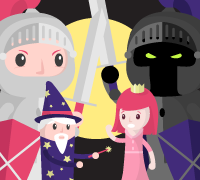
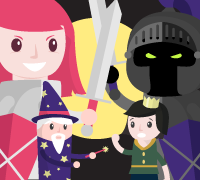
Fix qué bloques aparecen en Alien toca botón, mono contando, superviaje, laberitno, etc. Update portada mar encantado. Agrego bloque repetir vacio

diff --git a/app/actividades/actividadElMonoQueSabeContar.js b/app/actividades/actividadElMonoQueSabeContar.js
@@ -1,25 +1,18 @@
-/* globals ElMonoQueSabeContar */
-import elMonoCuentaDeNuevo from 'pilas-engine-bloques/actividades/actividadElMonoCuentaDeNuevo';
-import bloques from 'pilas-engine-bloques/actividades/bloques';
-var {AccionBuilder} = bloques;
+import {comunes,EstoyAlFin} from 'pilas-engine-bloques/actividades/bloquesMonoContando';
 
-var EstoyAlFin = AccionBuilder.buildSensor({
-  id: 'estoyFinColumna',
-  descripcion: 'Estoy al final de la columna',
-  icono: 'casillafinalmono.png',
-  funcionSensor: 'casillaActual().esFin()',
-});
+export default {
+  nombre: 'El mono que sabe contar',
+  id: 'ElMonoQueSabeContar',
+  enunciado: 'El mono debe recorrer todas las casillas y contar cuántas bananas y manzanas hay en total. Pista: primero pensá cómo contarías si hay una manzana o una banana en una casilla determinada. Luego pensá cómo harías para contar todas las frutas de una sola columna.',
+  consignaInicial: 'Subdividir un problema grande en problemas más pequeños ayuda a comprender mejor cada una de las partes que lo componen. Además nos permite concentrarnos en resolver cuestiones más sencillas al problema original.',
 
-var ConstructorDeAct = function(){};
-ConstructorDeAct.prototype = elMonoCuentaDeNuevo;
-var elMonoQueSabeContar = new ConstructorDeAct();
+  // la escena proviene de ejerciciosPilas
+  /* globals ElMonoQueSabeContar */
+  escena: ElMonoQueSabeContar,  // jshint ignore:line
+  puedeComentar: false,
+  puedeDesactivar: false,
+  puedeDuplicar: false,
 
-elMonoQueSabeContar.nombre = 'El mono que sabe contar';
-elMonoQueSabeContar.id = 'ElMonoQueSabeContar';
-elMonoQueSabeContar.enunciado = 'El mono debe recorrer todas las casillas y contar cuántas bananas y manzanas hay en total. Pista: primero pensá cómo contarías si hay una manzana o una banana en una casilla determinada. Luego pensá cómo harías para contar todas las frutas de una sola columna.';
-elMonoQueSabeContar.consignaInicial = 'Subdividir un problema grande en problemas más pequeños ayuda a comprender mejor cada una de las partes que lo componen. Además nos permite concentrarnos en resolver cuestiones más sencillas al problema original.';
-elMonoQueSabeContar.escena = ElMonoQueSabeContar;
-elMonoQueSabeContar.bloques = elMonoCuentaDeNuevo.bloques.slice();
-elMonoQueSabeContar.bloques.push(EstoyAlFin);
+  bloques: comunes.concat([EstoyAlFin]),
 
-export default elMonoQueSabeContar;
+};

diff --git a/app/actividades/actividadElMonoCuentaDeNuevo.js b/app/actividades/actividadElMonoCuentaDeNuevo.js
@@ -1,30 +1,5 @@
-/* globals ElMonoCuentaDeNuevo */
-import {Repetir, Si, Sino, Hasta, Procedimiento, VariableEspecificaGet, AccionBuilder} from 'pilas-engine-bloques/actividades/bloques';
-import {IrArriba, IrAbajo, SiguienteColumna} from 'pilas-engine-bloques/actividades/direccionesCuadricula';
-import {TocandoBanana, TocandoManzana} from 'pilas-engine-bloques/actividades/tocando';
-import {ContarBanana, ContarManzana} from 'pilas-engine-bloques/actividades/contando';
-
-var LargoColumnaActual = VariableEspecificaGet.extend({
-  init() {
-        this._super();
-        this.set('id', 'LargoColumnaActual');
-  },
-
-  nombre_sensor(){
-    return 'largoColumnaActual()-1';
-  },
-
-  descripcion(){
-    return 'largo de columna actual';
-  },
-});
-
-var EstoyAlInicio = AccionBuilder.buildSensor({
-  id: 'estoyInicio',
-  descripcion: 'Estoy al inicio de la columna',
-  icono: 'casillainiciomono.png',
-  funcionSensor: 'casillaActual().esInicio()',
-});
+import {comunes,LargoColumnaActual} from 'pilas-engine-bloques/actividades/bloquesMonoContando';
+import {RepetirVacio} from 'pilas-engine-bloques/actividades/bloques';
 
 export default {
   nombre: 'El mono cuenta de nuevo',
@@ -33,12 +8,12 @@ export default {
   consignaInicial: 'Una variable nos permite guardar información que puede cambiar en cada ejecución del programa, incluso en una misma ejecución. Por ejemplo, el largo de cada columna varía dependiendo en qué columna esté parado el mono.',
 
   // la escena proviene de ejerciciosPilas
+  /* globals ElMonoCuentaDeNuevo */
   escena: ElMonoCuentaDeNuevo,  // jshint ignore:line
   puedeComentar: false,
   puedeDesactivar: false,
   puedeDuplicar: false,
 
-  bloques: [Procedimiento, IrArriba,IrAbajo,SiguienteColumna,ContarBanana,ContarManzana,
-    TocandoBanana, TocandoManzana, Repetir, Si, Sino, Hasta, LargoColumnaActual, EstoyAlInicio],
+  bloques: [RepetirVacio, LargoColumnaActual].concat(comunes),
 
 };

diff --git a/app/actividades/bloquesMonoContando.js b/app/actividades/bloquesMonoContando.js
@@ -1,0 +1,38 @@
+import {Repetir, Si, Sino, Hasta, Procedimiento, VariableEspecificaGet, AccionBuilder} from 'pilas-engine-bloques/actividades/bloques';
+import {IrArriba, IrAbajo, SiguienteColumna} from 'pilas-engine-bloques/actividades/direccionesCuadricula';
+import {TocandoBanana, TocandoManzana} from 'pilas-engine-bloques/actividades/tocando';
+import {ContarBanana, ContarManzana} from 'pilas-engine-bloques/actividades/contando';
+
+var LargoColumnaActual = VariableEspecificaGet.extend({
+  init() {
+        this._super();
+        this.set('id', 'LargoColumnaActual');
+  },
+
+  nombre_sensor(){
+    return 'largoColumnaActual()-1';
+  },
+
+  descripcion(){
+    return 'largo de columna actual';
+  },
+});
+
+var EstoyAlInicio = AccionBuilder.buildSensor({
+  id: 'estoyInicio',
+  descripcion: 'Estoy al inicio de la columna',
+  icono: 'casillainiciomono.png',
+  funcionSensor: 'casillaActual().esInicio()',
+});
+
+var EstoyAlFin = AccionBuilder.buildSensor({
+  id: 'estoyFinColumna',
+  descripcion: 'Estoy al final de la columna',
+  icono: 'casillafinalmono.png',
+  funcionSensor: 'casillaActual().esFin()',
+});
+
+var comunes = [Procedimiento, IrArriba,IrAbajo,SiguienteColumna,ContarBanana,ContarManzana,
+  TocandoBanana, TocandoManzana, Repetir, Si, Sino, Hasta, EstoyAlInicio];
+
+export {comunes, EstoyAlFin, LargoColumnaActual};

diff --git a/public/libs/ejerciciosPilas.js b/public/libs/ejerciciosPilas.js
@@ -3519,14 +3519,14 @@ var ElMonoQueSabeContar = (function (_super) {
         this.cuadricula = new CuadriculaMultipleColumnas(new DefinidorColumnasRandom(5, 6), 0, -45, { separacionEntreCasillas: 5 }, { alto: 40, ancho: 40, grilla: 'casillamediomono.png', cantColumnas: 1 });
         this.cuadricula.cambiarImagenInicio('casillainiciomono.png');
         this.cambiarImagenesFin();
-        this.automata = new MonoAnimado(0, 0);
-        this.cuadricula.agregarActorEnPerspectiva(this.automata, 0, 0);
-        this.automata.escala *= 1.5;
         this.cuadricula.completarConObjetosRandom(new ConjuntoClases([ManzanaAnimada, BananaAnimada]), { condiciones: [
                 function (fila, col, pmatrix) { return fila != 0; },
                 //no incluye en primera fila
                 function (fila, col, pmatrix) { return pmatrix[fila + 1] != undefined && pmatrix[fila + 1][col] == 'T'; }
             ] });
+        this.automata = new MonoAnimado(0, 0);
+        this.cuadricula.agregarActorEnPerspectiva(this.automata, 0, 0);
+        this.automata.escala *= 1.5;
         this.tableros = {};
         this.tableros.ManzanaAnimada = new Tablero(150, 210, { texto: "Manzanas" });
         this.tableros.BananaAnimada = new Tablero(-150, 210, { texto: "Bananas" });

diff --git a/app/actividades/actividadAlien.js b/app/actividades/actividadAlien.js
@@ -2,7 +2,7 @@
 import bloques from 'pilas-engine-bloques/actividades/bloques';
 import direcciones from 'pilas-engine-bloques/actividades/direccionesCuadricula';
 
-var {Accion, Sensor, Repetir,Procedimiento} = bloques;
+var {Accion, Repetir,Procedimiento} = bloques;
 var {IrDerecha, IrIzquierda, IrArriba, IrAbajo} = direcciones;
 
 
@@ -29,28 +29,6 @@ var LevantarTuerca = Accion.extend({
   }
 });
 
-
-
-var TocandoTuerca = Sensor.extend({
-  init() {
-    this._super();
-    this.set('id', 'tocandoTuerca');
-  },
-
-  block_init(block) {
-    this._super(block);
-    block.appendDummyInput()
-         .appendField('¿tocando')
-         .appendField(this.obtener_icono('../libs/data/tuerca.png'))
-         .appendField('?');
-  },
-
-  nombre_sensor() {
-    return 'tocando(\'TuercaAnimada\')';
-  }
-});
-
-
 var actividadAlien = {
   nombre: 'El alien y las tuercas',
   id: 'ElAlienYLasTuercas',
@@ -61,7 +39,7 @@ var actividadAlien = {
   puedeDesactivar: false,
   puedeDuplicar: false,
 
-  bloques: [Procedimiento, Repetir, IrDerecha, IrIzquierda, IrArriba, IrAbajo, LevantarTuerca, TocandoTuerca],
+  bloques: [Procedimiento, Repetir, IrDerecha, IrIzquierda, IrArriba, IrAbajo, LevantarTuerca],
 };
 
 export default actividadAlien;

diff --git a/app/actividades/actividadLaberintoLargo.js b/app/actividades/actividadLaberintoLargo.js
@@ -3,7 +3,7 @@
 import bloques from 'pilas-engine-bloques/actividades/bloques';
 import direcciones from 'pilas-engine-bloques/actividades/direccionesCuadricula';
 import tocando from 'pilas-engine-bloques/actividades/tocando';
-var {Repetir,Si,Sino,Procedimiento,Hasta} = bloques;
+var {Repetir,Si,Sino,Procedimiento} = bloques;
 var {IrDerecha,IrAbajo} = direcciones;
 var {TocandoAbajo,TocandoDerecha,TocandoFinCamino} = tocando;
 
@@ -18,7 +18,7 @@ var actividadLaberintoLargo = {
   puedeDesactivar: false,
   puedeDuplicar: false,
 
-  bloques: [Procedimiento, IrDerecha,IrAbajo,Hasta, Repetir,Si,Sino, TocandoAbajo,TocandoDerecha,TocandoFinCamino],
+  bloques: [Procedimiento, IrDerecha,IrAbajo,Repetir,Si,Sino, TocandoAbajo,TocandoDerecha,TocandoFinCamino],
 };
 
 export default actividadLaberintoLargo;

diff --git a/app/actividades/bloques.js b/app/actividades/bloques.js
@@ -493,6 +493,12 @@ var Repetir = EstructuraDeControl.extend({
 
 });
 
+var RepetirVacio = Repetir.extend({
+  get_parametros(){
+    return [];
+  }
+});
+
 var Si = EstructuraDeControl.extend({
 
   init() {
@@ -582,4 +588,4 @@ var Hasta = EstructuraDeControl.extend({
 export {Bloque, CambioDeJSDeBlocky, VariableGet, VariableEspecificaGet,
                VariableSet, VariableLocalGet, VariableLocalSet, Procedimiento,
                Funcion, CallNoReturn, CallReturn, ParamGet, AlEmpezar, Accion, AccionBuilder,
-               Sensor, Repetir,Si,Sino,Hasta, ParamCampo, ParamValor};
+               Sensor, Repetir, RepetirVacio, Si,Sino,Hasta, ParamCampo, ParamValor};

diff --git a/app/actividades/actividadElSuperviaje.js b/app/actividades/actividadElSuperviaje.js
@@ -1,6 +1,4 @@
-import bloques from 'pilas-engine-bloques/actividades/bloques';
-
-var {AccionBuilder, Repetir, Si, Sino, Hasta, Procedimiento, VariableEspecificaGet} = bloques;
+import {AccionBuilder, Repetir, RepetirVacio, Si, Sino, Hasta, Procedimiento, VariableEspecificaGet} from 'pilas-engine-bloques/actividades/bloques';
 
 var Avanzar1km = AccionBuilder.build({
   descripcion: 'Avanzar 1 Km',
@@ -36,5 +34,5 @@ export default {
   puedeDesactivar: false,
   puedeDuplicar: false,
 
-  bloques: [Procedimiento, KmsTotales, Avanzar1km, Repetir, Si, Sino, Hasta],
+  bloques: [Procedimiento, KmsTotales, Avanzar1km, RepetirVacio, Repetir, Si, Sino, Hasta],
 };
